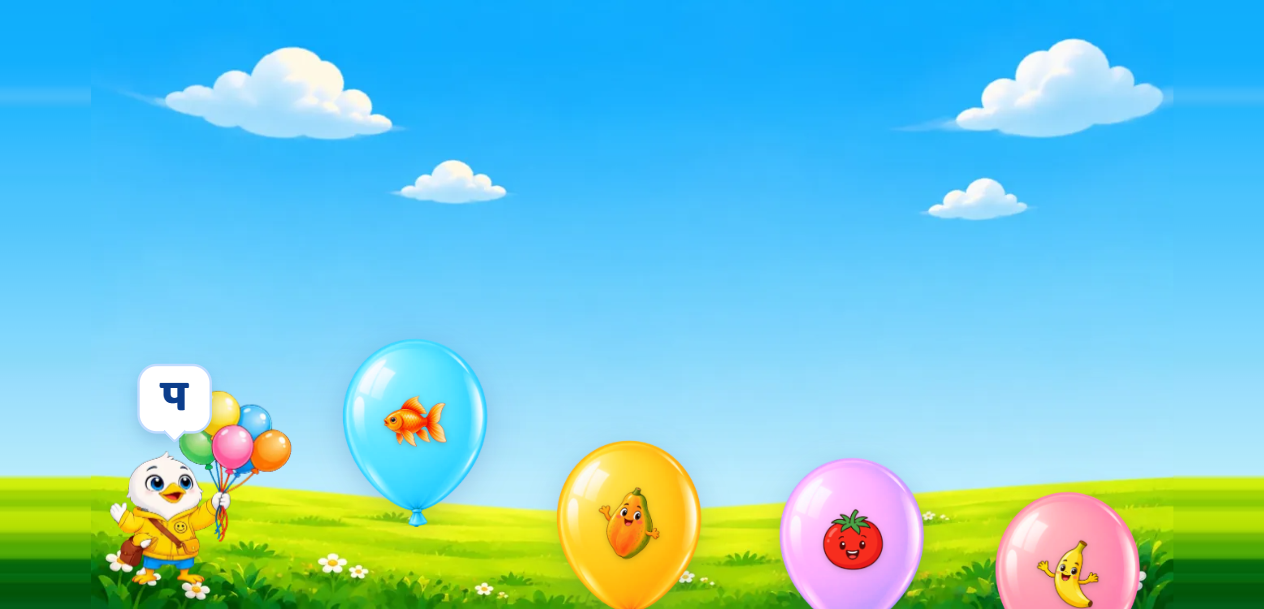
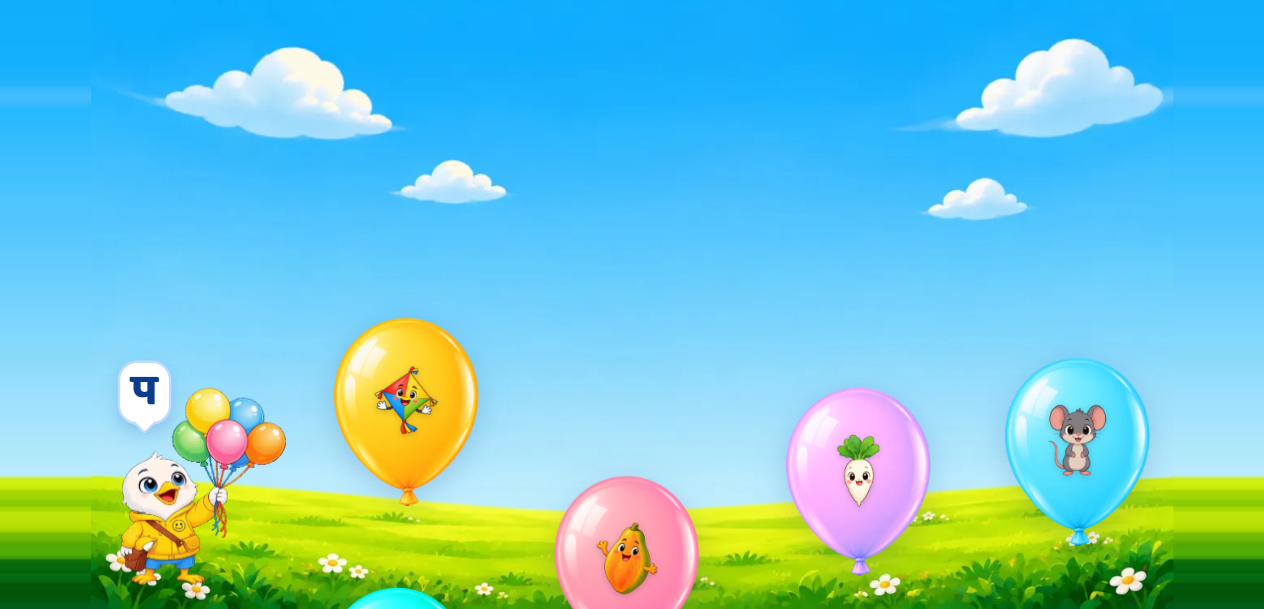
r8s: the speech bubble clears Swiftie and the balloons in her hand
SME: "right now it's overlapping Swiftie and balloons in Swifty's hands, shift it a little left, also
you can less the space of the speech bubble."

Both, and they are the same problem. r8r put the bubble over her head at 36% of her 248px box, which
cleared her face but not the bunch she is holding - and the bunch is the taller of the two, so it
was the thing being overlapped. Cutting the padding is what makes the move work rather than being a
separate tidy: at 22px of side padding one akshara was carrying a lot of empty bubble, and that
width is what reached across to the balloons.

  left     36%  -> 21%          above her shoulder, not between her and the bunch
  padding  8/22/10 -> 4/14/7    and min-width off entirely - the letter sets the size now
  top      -26px -> -30px       the smaller bubble sits a touch higher so the tail still reaches

Measured after: the bubble is 53x64 where it was 75x70, its right edge at 171px against her box
midpoint at 202px - so it now ends before the half of her that holds the balloons, rather than
crossing into it.

dist 10,431,575 B = 9.948 MB, 54,185 free.

diff --git a/balloon_game_standalone/index.html b/balloon_game_standalone/index.html
@@ -3128,11 +3128,13 @@ body.vo-lock .sg-vo{ pointer-events:none !important; opacity:.45; filter:graysca
    Colours are the board's, not the feedback palette: this is Swiftie telling the child what to look
    for, and green or red here would read as a verdict on the tap they just made. */
 .bal-say{
-  /* over her HEAD, not the middle of her box. She is drawn holding a bunch of balloons on her
-     right, so centring on the box put the tail into the balloons instead of at her face - the
-     picture is 248px wide and her head sits at about 36% of it. */
-  position:absolute; left:36%; top:-26px; transform:translateX(-50%) scale(.6);
-  min-width:92px; padding:8px 22px 10px; box-sizing:border-box;
+  /* CLEAR OF HER AND OF THE BALLOONS SHE IS HOLDING. 36% put it over her head but still
+     overlapping the bunch in her right hand, and the bunch is the taller of the two - so the bubble
+     moves further left, to sit above her shoulder rather than between them. The padding comes in
+     with it: at 22px of side padding a single akshara was carrying a lot of empty bubble, which is
+     what made it wide enough to reach the balloons in the first place. */
+  position:absolute; left:21%; top:-30px; transform:translateX(-50%) scale(.6);
+  min-width:0; padding:4px 14px 7px; box-sizing:border-box;
   background:#fff; border:3px solid #BFDBFF; border-radius:24px;
   box-shadow:0 10px 20px rgba(11,61,140,.18);
   font-family:var(--font-hi); font-weight:800; font-size:54px; line-height:1.15;

diff --git a/build/HI02H11_L01_S01.html b/build/HI02H11_L01_S01.html
@@ -3128,11 +3128,13 @@ body.vo-lock .sg-vo{ pointer-events:none !important; opacity:.45; filter:graysca
    Colours are the board's, not the feedback palette: this is Swiftie telling the child what to look
    for, and green or red here would read as a verdict on the tap they just made. */
 .bal-say{
-  /* over her HEAD, not the middle of her box. She is drawn holding a bunch of balloons on her
-     right, so centring on the box put the tail into the balloons instead of at her face - the
-     picture is 248px wide and her head sits at about 36% of it. */
-  position:absolute; left:36%; top:-26px; transform:translateX(-50%) scale(.6);
-  min-width:92px; padding:8px 22px 10px; box-sizing:border-box;
+  /* CLEAR OF HER AND OF THE BALLOONS SHE IS HOLDING. 36% put it over her head but still
+     overlapping the bunch in her right hand, and the bunch is the taller of the two - so the bubble
+     moves further left, to sit above her shoulder rather than between them. The padding comes in
+     with it: at 22px of side padding a single akshara was carrying a lot of empty bubble, which is
+     what made it wide enough to reach the balloons in the first place. */
+  position:absolute; left:21%; top:-30px; transform:translateX(-50%) scale(.6);
+  min-width:0; padding:4px 14px 7px; box-sizing:border-box;
   background:#fff; border:3px solid #BFDBFF; border-radius:24px;
   box-shadow:0 10px 20px rgba(11,61,140,.18);
   font-family:var(--font-hi); font-weight:800; font-size:54px; line-height:1.15;

diff --git a/dist/HI02H11_L01_S01.html b/dist/HI02H11_L01_S01.html
@@ -3128,11 +3128,13 @@ body.vo-lock .sg-vo{ pointer-events:none !important; opacity:.45; filter:graysca
    Colours are the board's, not the feedback palette: this is Swiftie telling the child what to look
    for, and green or red here would read as a verdict on the tap they just made. */
 .bal-say{
-  /* over her HEAD, not the middle of her box. She is drawn holding a bunch of balloons on her
-     right, so centring on the box put the tail into the balloons instead of at her face - the
-     picture is 248px wide and her head sits at about 36% of it. */
-  position:absolute; left:36%; top:-26px; transform:translateX(-50%) scale(.6);
-  min-width:92px; padding:8px 22px 10px; box-sizing:border-box;
+  /* CLEAR OF HER AND OF THE BALLOONS SHE IS HOLDING. 36% put it over her head but still
+     overlapping the bunch in her right hand, and the bunch is the taller of the two - so the bubble
+     moves further left, to sit above her shoulder rather than between them. The padding comes in
+     with it: at 22px of side padding a single akshara was carrying a lot of empty bubble, which is
+     what made it wide enough to reach the balloons in the first place. */
+  position:absolute; left:21%; top:-30px; transform:translateX(-50%) scale(.6);
+  min-width:0; padding:4px 14px 7px; box-sizing:border-box;
   background:#fff; border:3px solid #BFDBFF; border-radius:24px;
   box-shadow:0 10px 20px rgba(11,61,140,.18);
   font-family:var(--font-hi); font-weight:800; font-size:54px; line-height:1.15;

diff --git a/engine_local/style.css b/engine_local/style.css
@@ -3117,11 +3117,13 @@ body.vo-lock .sg-vo{ pointer-events:none !important; opacity:.45; filter:graysca
    Colours are the board's, not the feedback palette: this is Swiftie telling the child what to look
    for, and green or red here would read as a verdict on the tap they just made. */
 .bal-say{
-  /* over her HEAD, not the middle of her box. She is drawn holding a bunch of balloons on her
-     right, so centring on the box put the tail into the balloons instead of at her face - the
-     picture is 248px wide and her head sits at about 36% of it. */
-  position:absolute; left:36%; top:-26px; transform:translateX(-50%) scale(.6);
-  min-width:92px; padding:8px 22px 10px; box-sizing:border-box;
+  /* CLEAR OF HER AND OF THE BALLOONS SHE IS HOLDING. 36% put it over her head but still
+     overlapping the bunch in her right hand, and the bunch is the taller of the two - so the bubble
+     moves further left, to sit above her shoulder rather than between them. The padding comes in
+     with it: at 22px of side padding a single akshara was carrying a lot of empty bubble, which is
+     what made it wide enough to reach the balloons in the first place. */
+  position:absolute; left:21%; top:-30px; transform:translateX(-50%) scale(.6);
+  min-width:0; padding:4px 14px 7px; box-sizing:border-box;
   background:#fff; border:3px solid #BFDBFF; border-radius:24px;
   box-shadow:0 10px 20px rgba(11,61,140,.18);
   font-family:var(--font-hi); font-weight:800; font-size:54px; line-height:1.15;
